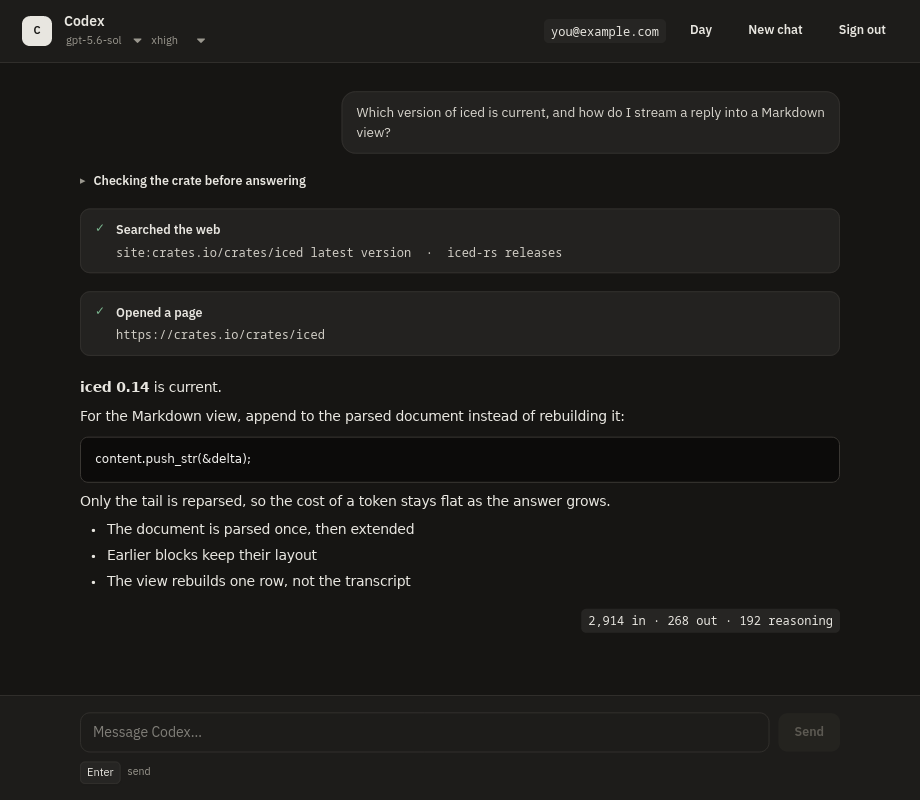
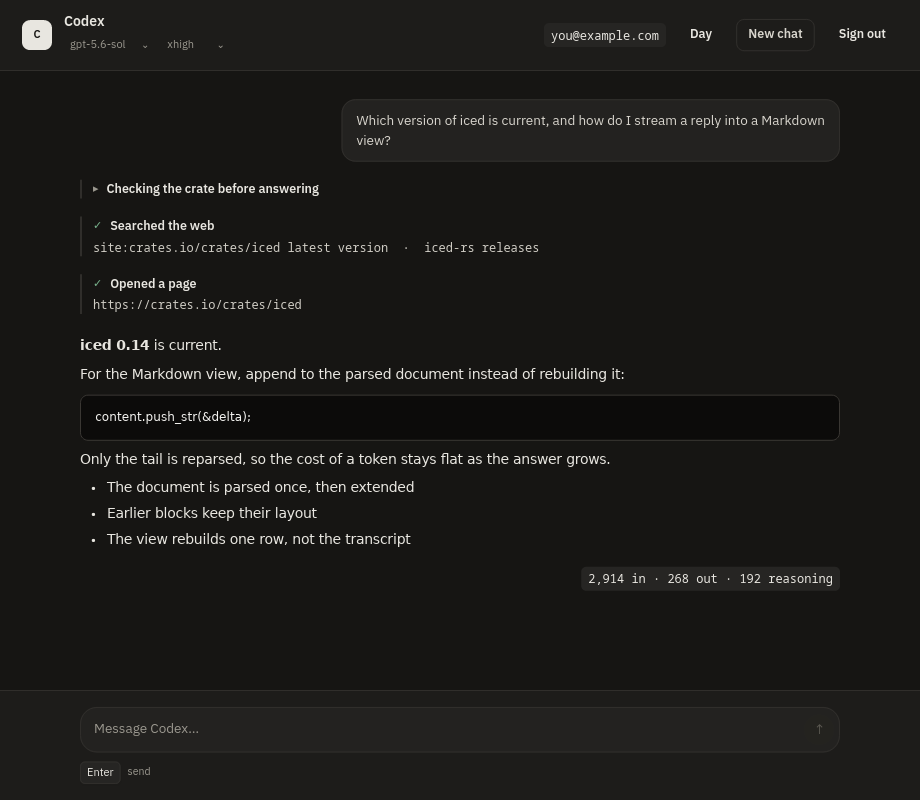
feat(ai-chat): design the parts that were still wearing defaults
The dropdown had never been looked at. Opened, it was a square white slab
with no shadow, a hard black bar on the selection, and 260px of empty
space under three items — because `menu-h` is a height rather than a
maximum, and the `opened` field status was left unset. It now sizes to
its content, rounds, casts a shadow, marks the selection with the accent,
and swaps its chevron when it opens.

The composer was a plain rectangle with a text button floating beside it.
The field and its send are now one pill with the button inside it, which
is what the control has looked like everywhere else for years.

Tool calls were filled cards that outweighed the answer they were serving.
They are rails now — as is reasoning, so every machine step in a turn
shares one left edge and the answer keeps the outer one.

`New chat` takes an outline, because three ghost buttons in a row is not a
hierarchy.

The menu test says what it can and cannot prove: overlay contents are
outside the scanned tree, and this palette paints opened and hovered the
same, so "the menu opened" is not observable here. It asserts the control
answered the click, and the capture is what the appearance is reviewed
from.

diff --git a/examples/ai-chat/README.md b/examples/ai-chat/README.md
@@ -54,13 +54,17 @@ survive `New chat`, and `~/.codex/config.toml` is only ever read.
 Clicking a link copies it; which browser you wanted is not this window's call.
 `Night`/`Day` switches palettes, and settled rows follow.
 
-| Mid-turn | Night |
-| --- | --- |
-| ![A reply being written, under the work still running](screenshots/streaming.png) | ![The same transcript on the night palette](screenshots/night.png) |
+| Mid-turn |
+| --- |
+| ![A reply being written, under the work still running](screenshots/streaming.png) |
 
-| Signing in | Waiting for the code |
+| The model menu | Waiting for a code |
 | --- | --- |
-| ![The sign-in screen](screenshots/sign-in.png) | ![A code to type, and the page to type it into](screenshots/sign-in-code.png) |
+| ![The catalogue, open](screenshots/menu.png) | ![A code to type, and the page to type it into](screenshots/sign-in-code.png) |
+
+| Signing in | Night |
+| --- | --- |
+| ![The sign-in screen](screenshots/sign-in.png) | ![The same transcript on the night palette](screenshots/night.png) |
 
 Every one of these is generated, not staged: the first by the test that types
 into the composer and presses Send, the rest by `cargo ice inspect` against a
@@ -140,6 +144,9 @@ virtualising the transcript is the next thing that would flatten it.
 
 ## Limits
 
+- An overlay's contents are outside the tree the test harness scans, so a
+  menu's appearance is reviewed from a capture rather than asserted. The test
+  that produces it says so.
 - **The sign-in is not fully verified.** Minting a code and telling waiting from
   refused are both checked against the live host; the half past approval — what
   the host returns once a code is typed, and the token exchange — is read off
